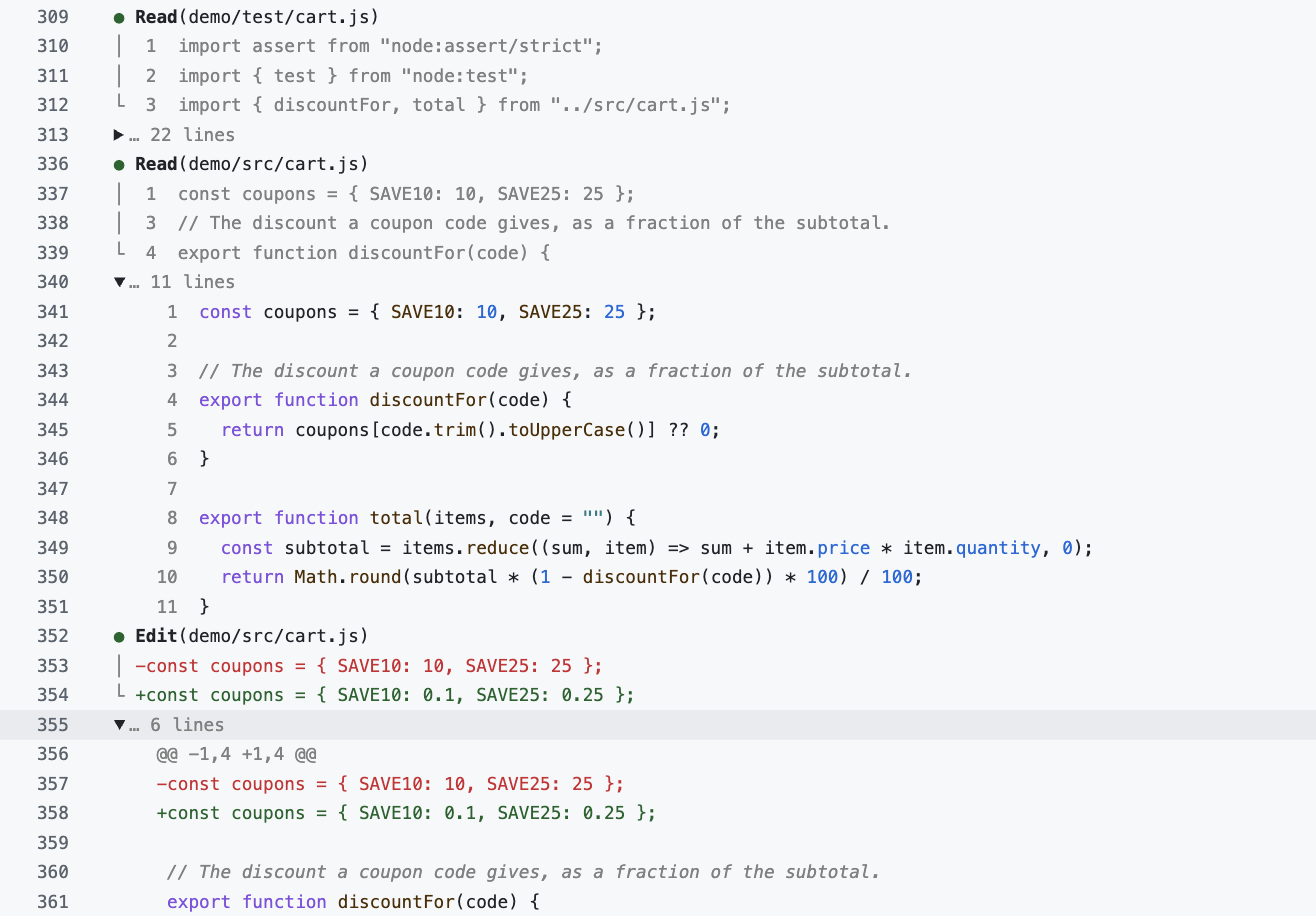
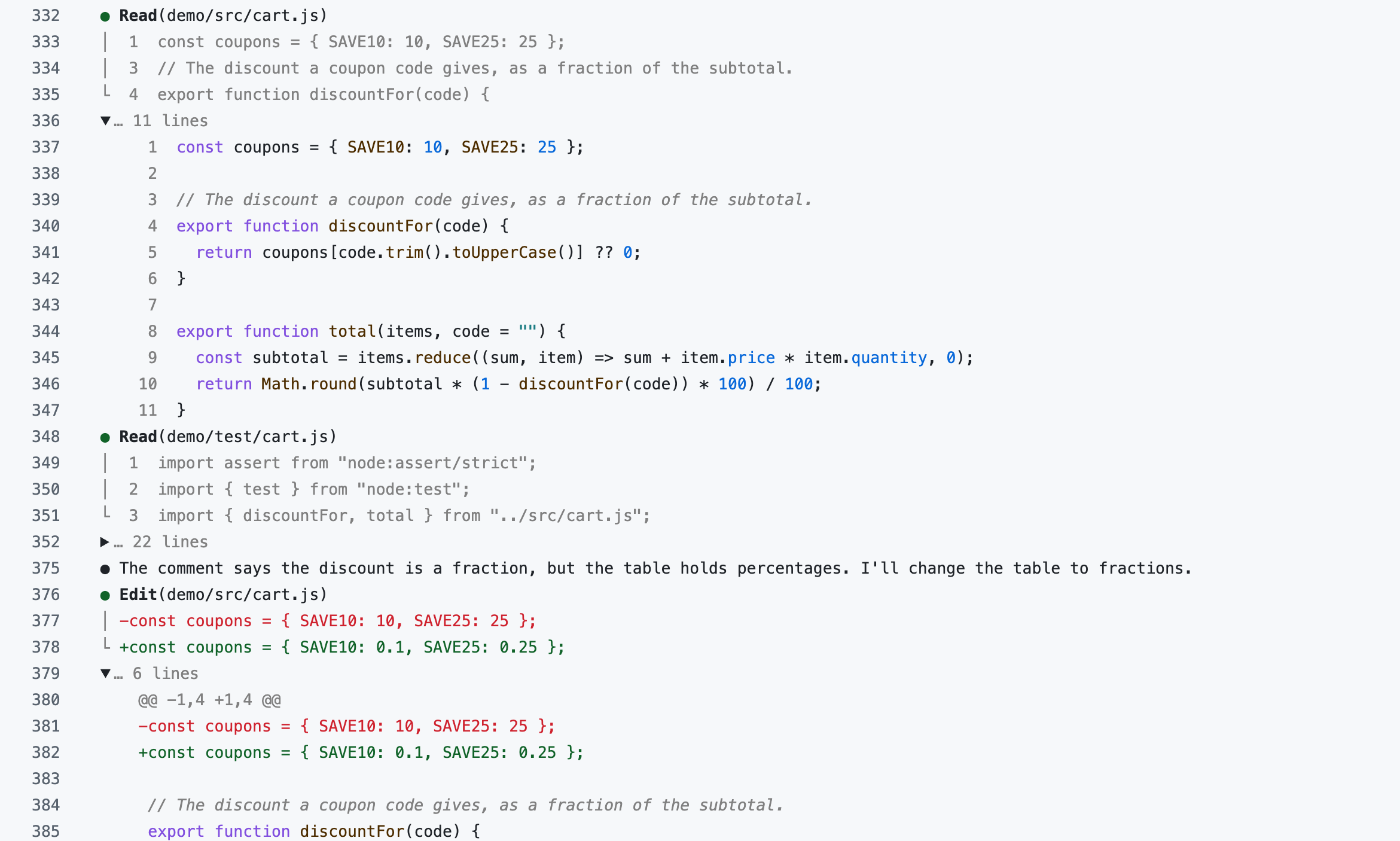
v1: the README pins @v1, with screenshots and run links from the v1 rendering (#80)

Changed region(s): [[0.0312, 0.0, 0.8412, 1.0]]

diff --git a/README.md b/README.md
@@ -11,7 +11,7 @@ It works live, while the agent runs, or on a finished run.
 </picture>
 
 That is Claude fixing a failing test in [`demo/`](demo/), inside `claude-code-action`. You can check
-out the log above [in this run](https://github.com/SwissConnection/render-agent-log/actions/runs/36433710396/job/108966118283#step:4:279).
+out the log above [in this run](https://github.com/SwissConnection/render-agent-log/actions/runs/45712489381/job/139550170967#step:6:282).
 [`demo.yml`](.github/workflows/demo.yml) is the whole workflow.
 
 ---
@@ -58,7 +58,7 @@ and the whole run in 27 lines, with each tool's full output one click away.
 On a Linux runner, add one step before `claude-code-action` and pass its `wrapper` output on:
 
 ```yaml
-- uses: SwissConnection/render-agent-log@v0
+- uses: SwissConnection/render-agent-log@v1
   id: render
 
 - uses: anthropics/claude-code-action@v1
@@ -73,7 +73,7 @@ The run now renders in the log of the `claude-code-action` step as it happens. L
 run's result as JSON after the `✻` summary line; that comes from the action itself, and
 render-agent-log can't suppress it.
 
-Pin the Action to a release: `@v0` follows the latest `v0.x.y`, and a release's commit SHA fixes it.
+Pin the Action to a release: `@v1` follows the latest `v1.x.y`, and a release's commit SHA fixes it.
 `@main` does not work, since only a release holds the built Action.
 
 ---
@@ -118,7 +118,7 @@ for every later step of the job, so a `claude-code-action` step after it runs th
 a later setup step without the input does not undo it:
 
 ```yaml
-- uses: SwissConnection/render-agent-log@v0
+- uses: SwissConnection/render-agent-log@v1
   id: render
   with:
     claude: scripts/claude # your claude, or a script that runs it
@@ -131,7 +131,7 @@ a later setup step without the input does not undo it:
 **CLI.** If you run `claude -p` yourself, the stream is already on standard output. Pipe it through:
 
 ```yaml
-- uses: SwissConnection/render-agent-log@v0
+- uses: SwissConnection/render-agent-log@v1
 
 - shell: bash # adds pipefail, so the step fails when claude does
   run: claude -p "…" --output-format stream-json --verbose | render-agent-log
@@ -150,7 +150,7 @@ file in a later step. You see the log only after the run, but it needs nothing f
     claude_code_oauth_token: ${{ secrets.CLAUDE_CODE_OAUTH_TOKEN }}
     prompt: …
 
-- uses: SwissConnection/render-agent-log@v0
+- uses: SwissConnection/render-agent-log@v1
   if: always() && steps.claude.outputs.execution_file != ''
   with:
     execution-file: ${{ steps.claude.outputs.execution_file }}
@@ -165,7 +165,7 @@ Each screenshot links to the line in the run it came from.
 
 **Full output, folded.** Each call shows its first three lines; the rest is one click away. An edit
 shows the changed lines, and the fold holds the whole diff.
-([run](https://github.com/SwissConnection/render-agent-log/actions/runs/36433710396/job/108966118283#step:4:368))
+([run](https://github.com/SwissConnection/render-agent-log/actions/runs/45712489381/job/139550170967#step:6:376))
 
 <img alt="An Edit call with its changed lines, and the expanded fold holding the full diff" src="docs/images/fold-diff.png" width="640">
 
@@ -173,7 +173,7 @@ shows the changed lines, and the fold holds the whole diff.
 name, in any of the [190-odd languages](https://github.com/highlightjs/highlight.js/blob/main/SUPPORTED_LANGUAGES.md)
 highlight.js knows. A diff keeps its changed lines red and green whole and highlights the code
 around them. Output that Claude prints with `cat` is not a file read, so it stays plain.
-([run](https://github.com/SwissConnection/render-agent-log/actions/runs/36419296891/job/108917882109#step:4:336))
+([run](https://github.com/SwissConnection/render-agent-log/actions/runs/45712489381/job/139550170967#step:6:332))
 
 <picture>
   <source media="(prefers-color-scheme: dark)" srcset="docs/images/highlighting-dark.png">
@@ -183,25 +183,25 @@ around them. Output that Claude prints with `cat` is not a file read, so it stay
 **Subagents.** A subagent's calls sit under the Agent call that started it, one `│` per level. When
 subagents run in the background and their messages interleave, each line still lands under its own
 Agent call, and a tool result always sits under its own call.
-([run](https://github.com/SwissConnection/render-agent-log/actions/runs/36433482518/job/108965348196#step:7:7))
+([run](https://github.com/SwissConnection/render-agent-log/actions/runs/45712273183/job/139549433247#step:9:7))
 
 <img alt="An Agent call with the subagent's Grep and Glob calls nested under it" src="docs/images/subagent.png" width="760">
 
 **Failures.** Failed tool calls and a run that ends in an error are red, with the reason under the
 summary line.
-([run](https://github.com/SwissConnection/render-agent-log/actions/runs/36433482518/job/108965348196#step:10:7))
+([run](https://github.com/SwissConnection/render-agent-log/actions/runs/45712273183/job/139549433247#step:13:7))
 
 <img alt="A run that hit its turn limit: the summary line in red with the error under it" src="docs/images/max-turns.png" width="640">
 
 **Tool output can't issue workflow commands.** GitHub runs any log line that starts with `::`, so a
 changelog, a web page or a test that prints `::error::` or `::add-mask::` would otherwise add
 annotations or hide text in your log. Here they print as text.
-([run](https://github.com/SwissConnection/render-agent-log/actions/runs/36433482518/job/108965348196#step:13:11))
+([run](https://github.com/SwissConnection/render-agent-log/actions/runs/45712273183/job/139549433247#step:16:11))
 
 <img alt="Tool output containing ::error:: and ::add-mask:: lines, shown as plain text" src="docs/images/hostile-output.png" width="640">
 
 The visual check renders every fixture the tests use, on every change to `main`.
-[Its run for this release](https://github.com/SwissConnection/render-agent-log/actions/runs/36433482518/job/108965348196)
+[Its run for this release](https://github.com/SwissConnection/render-agent-log/actions/runs/45712273183/job/139549433247)
 shows the rest: parallel calls whose results come back out of order, thinking, and an execution file.
 
 ---
@@ -261,7 +261,8 @@ closes the group, so the action's own `::error::` lines still become annotations
   update can break the live rendering. If the action starts `claude` some other way, the wrapper
   warns and runs it unrendered; if the action stops shipping `claude` where the wrapper looks for it,
   the step fails with an error naming the path.
-- **`v0.x`.** Inputs and output may still change before `v1`.
+- **`v1`.** Its inputs and outputs stay as they are within `v1`; a change that breaks them is `v2`.
+  The log itself keeps improving in minor and patch releases.
 
 The design is in [docs/spec.md](docs/spec.md). To report a vulnerability, see [SECURITY.md](SECURITY.md).
 

diff --git a/docs/spec.md b/docs/spec.md
@@ -144,7 +144,7 @@ commits it on top of the released source, in a commit only its tags point at. Th
 share one chunk, `dist/chunk.js`, which holds the renderer and highlight.js (BSD-3-Clause, see
 [NOTICE](../NOTICE)) with all its languages.
 
-The Action, `SwissConnection/render-agent-log@v0`, runs on `node24`, so no runner needs an install
+The Action, `SwissConnection/render-agent-log@v1`, runs on `node24`, so no runner needs an install
 step. Its modes:
 
 - `with: execution-file: ${{ steps.claude.outputs.execution_file }}` renders a finished run, for
